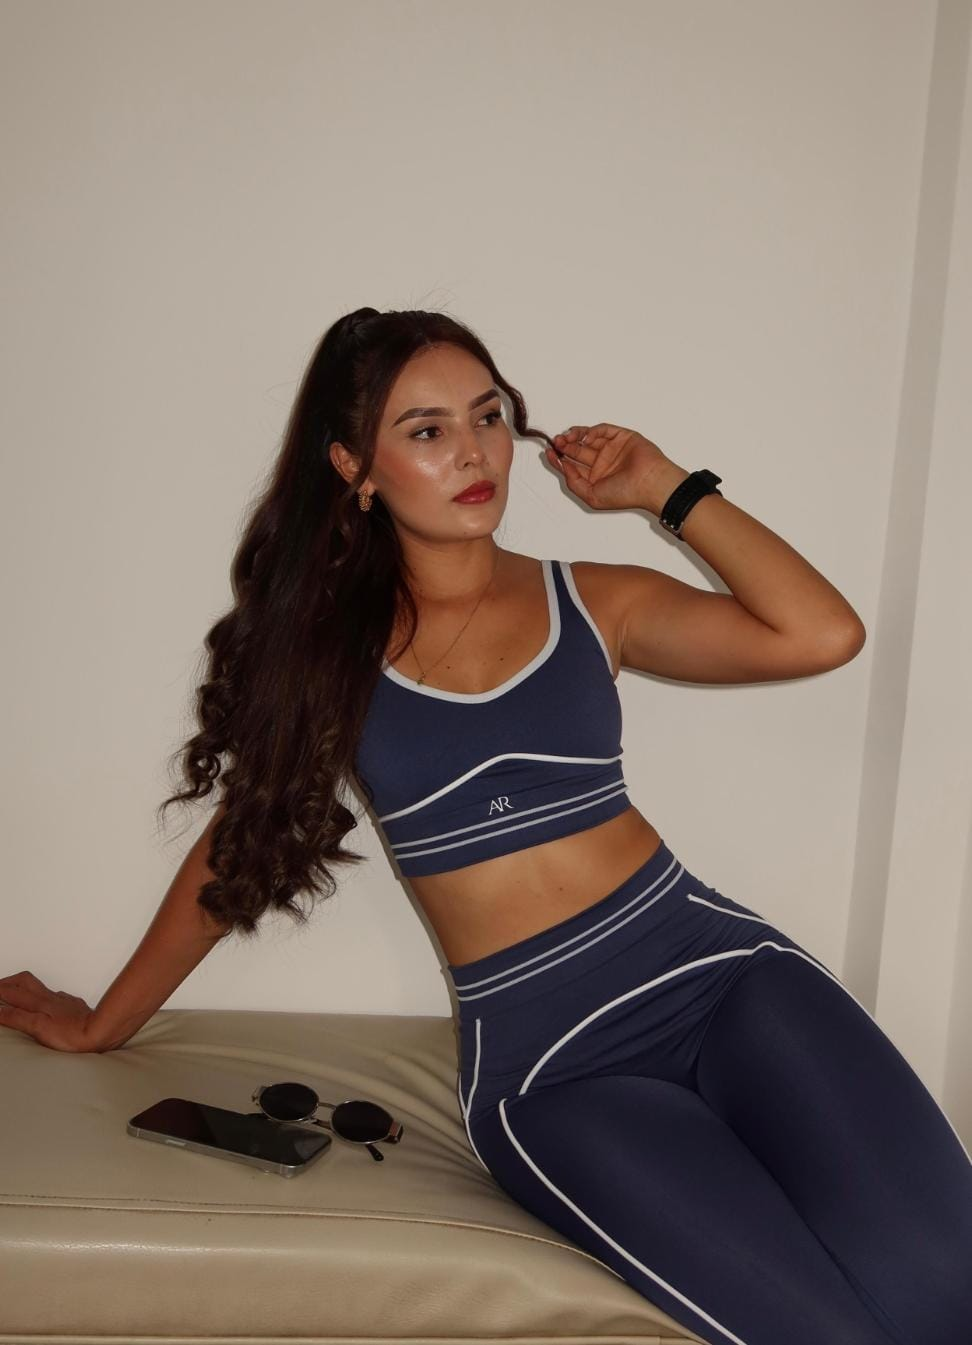
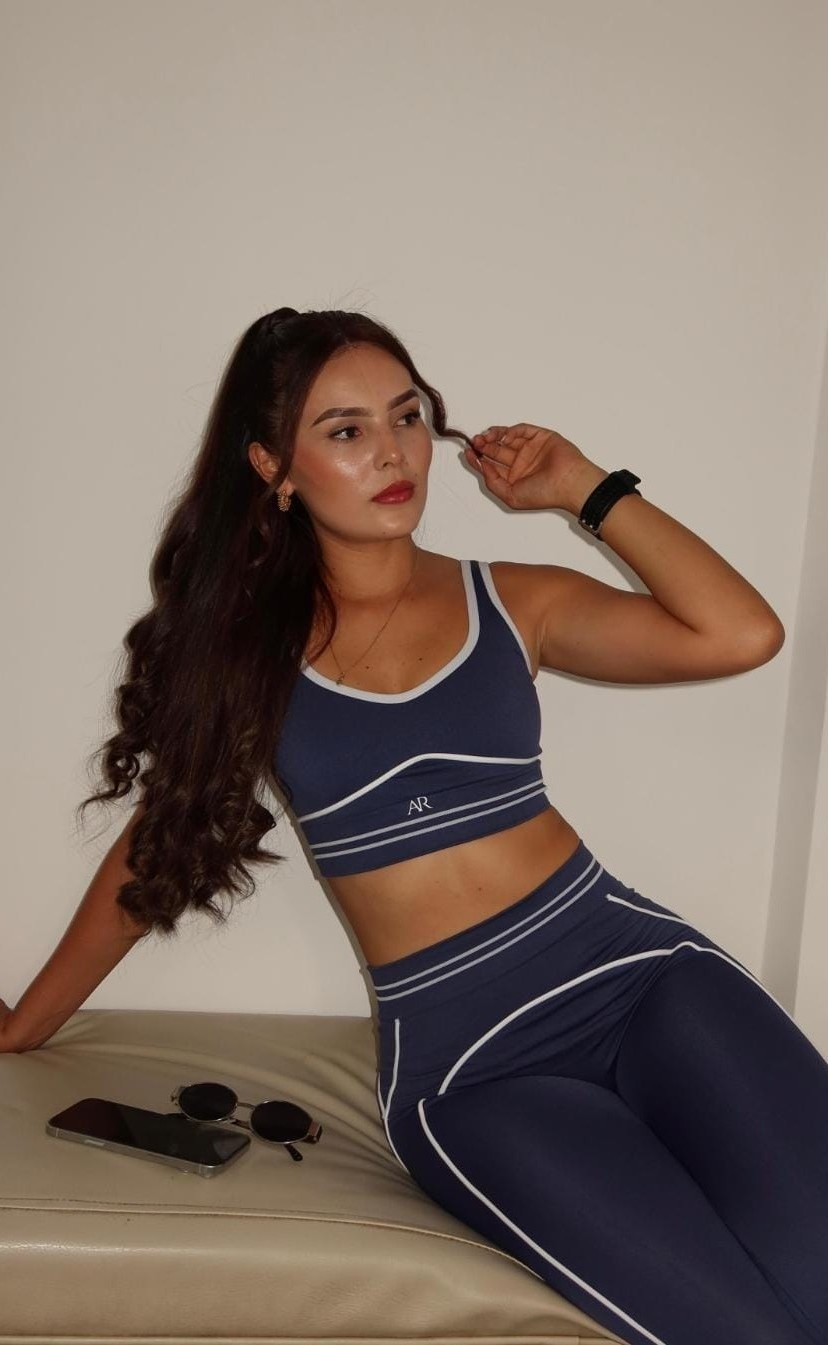
agregamos producto set marie

diff --git a/src/Components/Assets/all_product.js b/src/Components/Assets/all_product.js
@@ -506,6 +506,27 @@ let all_product = [
     },
   },
   {
+    id: 403,
+    name: "SET MARIE - TONO AZUL",
+    category: "sets",
+    description:
+      "Tela completamente acanalada, su efecto push up te hará lucir increible",
+    image: setmarie1,
+    image2: setmarie2,
+    image3: setmarie3,
+    image4: setmarie4,
+    new_price: 90000,
+    old_price: 100000,
+    offer: false,
+    sizes: {
+      XS: false,
+      S: true,
+      M: false,
+      L: false,
+      XL: false,
+    },
+  },
+  {
     id: 404,
     name: "SET EMILY - TONO NEGRO",
     category: "sets",
